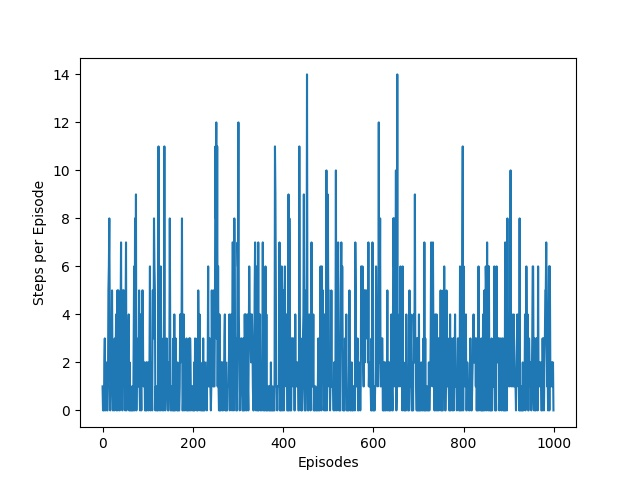
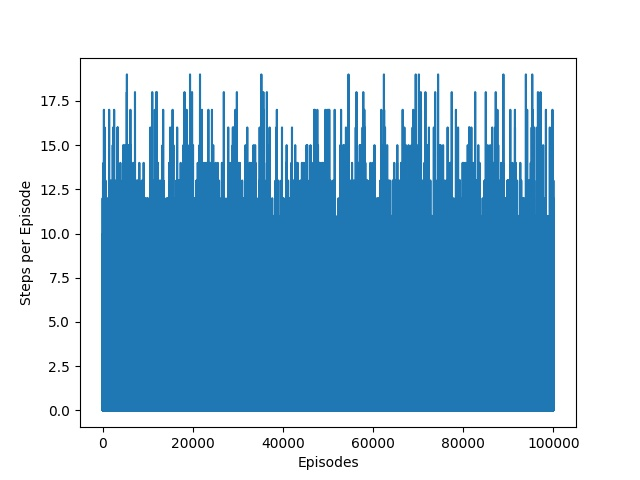
last minute changes

diff --git a/main.py b/main.py
@@ -6,9 +6,10 @@ from AI.state import *
 import random
 import matplotlib.pyplot as plt
 
+epsilon = 0.1
+
 
 def epsilon_greedy(state_policy, actions):
-    epsilon = 0.1
 
     # Chooses whether to go epsilon or the greedy path, ensures exploration
     epsilon_choice = random.choices(["Greedy", "Epsilon"],
@@ -29,9 +30,9 @@ def __main__():
     # algorithm = 'sarsa'
     algorithm = 'qlearning'
 
-    episodes = 1000
-    a = 0.1
-    r = 0.5
+    episodes = 10000
+    a = 0.5
+    r = 0.1
 
     action_decision = {
         "probabilistic": False,
@@ -150,7 +151,7 @@ def __main__():
                 R = 0
                 if game.get_collided():
                     R = -100
-                    print("Oof, A caused a collision")
+                    # print("Oof, A caused a collision")
                 elif game.check_dodge():
                     R = 100
 
@@ -197,7 +198,7 @@ def __main__():
         ax.plot(x, y, '-')
         ax.set_xlabel("Episodes")
         ax.set_ylabel("Steps per Episode")
-        fig.savefig("GRAPH.jpg")
+        fig.savefig("SARSA(a={}r={}e={}).jpg".format(a, r, epsilon))
 
     elif (gamemode == 'ai' and algorithm == 'qlearning'):
         '''
@@ -259,9 +260,11 @@ def __main__():
                 R = 0
                 if game.get_collided():
                     R = -100
-                    print("Oof, A caused a collision")
+                    # print("Oof, A caused a collision")
                 elif game.check_dodge():
                     R = 100
+                elif A == 0:
+                    R = -10
 
                 # find max(A(S', a))
                 simJump = game.simulate_input('jump')
@@ -272,7 +275,7 @@ def __main__():
                 simContinue.update_objects()
                 simContinue.update_sprites()
 
-                jumpReward = 0
+                jumpReward = -10
                 continueReward = 0
 
                 if (simJump.get_collided()):
@@ -320,7 +323,7 @@ def __main__():
         ax.plot(x, y, '-')
         ax.set_xlabel("Episodes")
         ax.set_ylabel("Steps per Episode")
-        fig.savefig("GRAPH.jpg")
+        fig.savefig("QLearning(a={}r={}e={}).jpg".format(a, r, epsilon))
 
     elif (gamemode == 'ai' and algorithm == 'sarsa2'):
         '''
